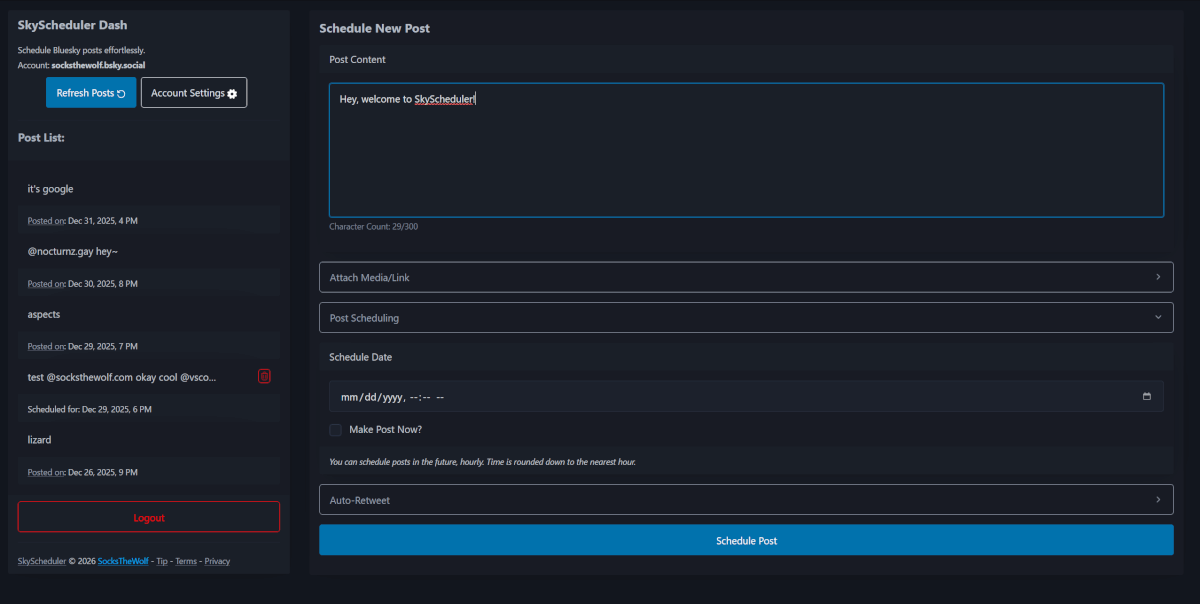
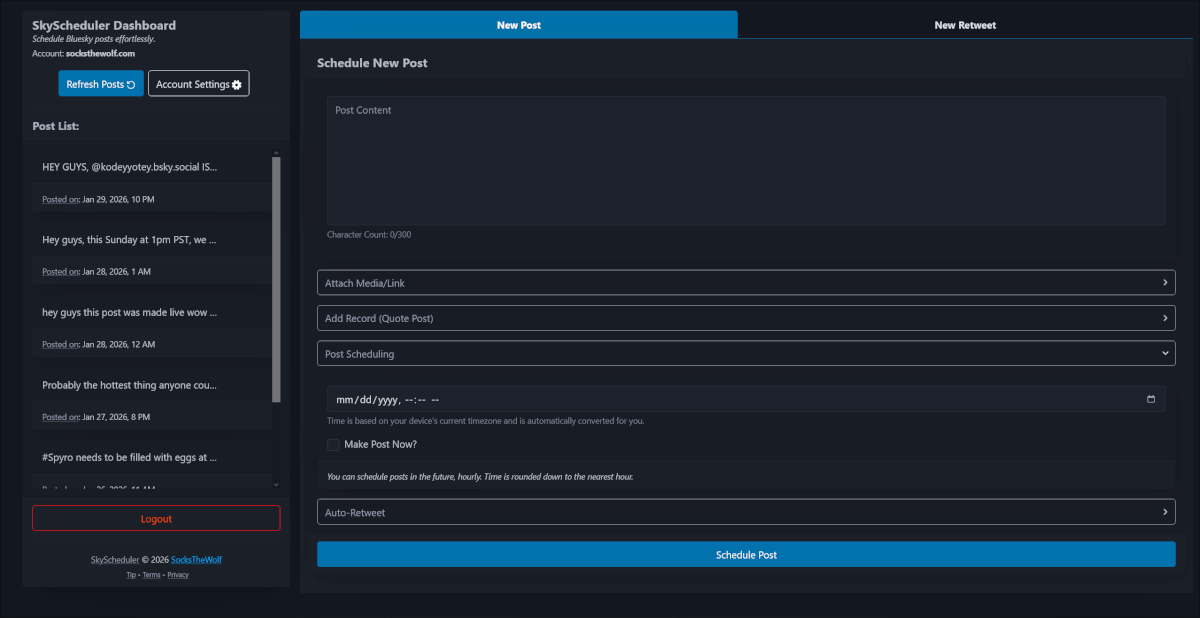
minor updates
* update dashboard png
* update footer dynamically
* whatever else I'm doing idk

diff --git a/src/layout/footer.tsx b/src/layout/footer.tsx
@@ -1,13 +1,16 @@
 // Helper footer for various pages
 type FooterCopyrightProps = {
   inNewWindow?: boolean;
+  showHomepage?: boolean;
 }
 
-export default function FooterCopyright({inNewWindow}: FooterCopyrightProps) {
-  const newWinAttr = inNewWindow ? {"target": '_blank'} : {};
+export default function FooterCopyright(props: FooterCopyrightProps) {
+  const newWinAttr = props.inNewWindow ? {"target": '_blank'} : {};
+  const projectURL = (<a class="secondary" target="_blank" title="Project source on GitHub" href="https://github.com/SocksTheWolf/SkyScheduler">SkyScheduler</a>);
+  const homepageURL = (<a class="secondary" title="Homepage" href="/">SkyScheduler</a>);
   return (
     <center><small> 
-      <a class="secondary" target="_blank" title="Project source on GitHub" href="https://github.com/SocksTheWolf/SkyScheduler">SkyScheduler</a> &copy; {new Date().getFullYear()} 
+      {props.showHomepage ? homepageURL : projectURL} &copy; {new Date().getFullYear()} 
       <span class="credits">
         <a rel="author" target="_blank" title="Project author" href="https://socksthewolf.com">SocksTheWolf</a><br />
         <small>

diff --git a/src/pages/dashboard.tsx b/src/pages/dashboard.tsx
@@ -64,7 +64,7 @@ export default function Dashboard(props:any) {
                 </button>
               </div>
               <hr />
-              <FooterCopyright inNewWindow={true} />
+              <FooterCopyright inNewWindow={true} showHomepage={true} />
             </footer>
           </article>
         </section>

diff --git a/README.md b/README.md
@@ -18,6 +18,7 @@ SkyScheduler is a lightweight Cloudflare Workers-based microservice application 
 - **Supports media posts**: Automatically handles content tagging and formatting your media so that it looks the best on BSky. Image transforms via Cloudflare Images
 - **Handles Link Embeds**: Post your content with a link embed easily!
 - **Automatic reposting**: Schedule how many times you want your post to be retweeted on the network. Get more visibility and engagement without having to do more work
+- **Repost anything**: Need to retweet something made out of SkyScheduler? Yeah, you can.
 - **Invite Keys**: Want to throttle the signups to your portal or keep the pool to friends/org only? Use invite keys to manage signups
 
 ## Getting Started
